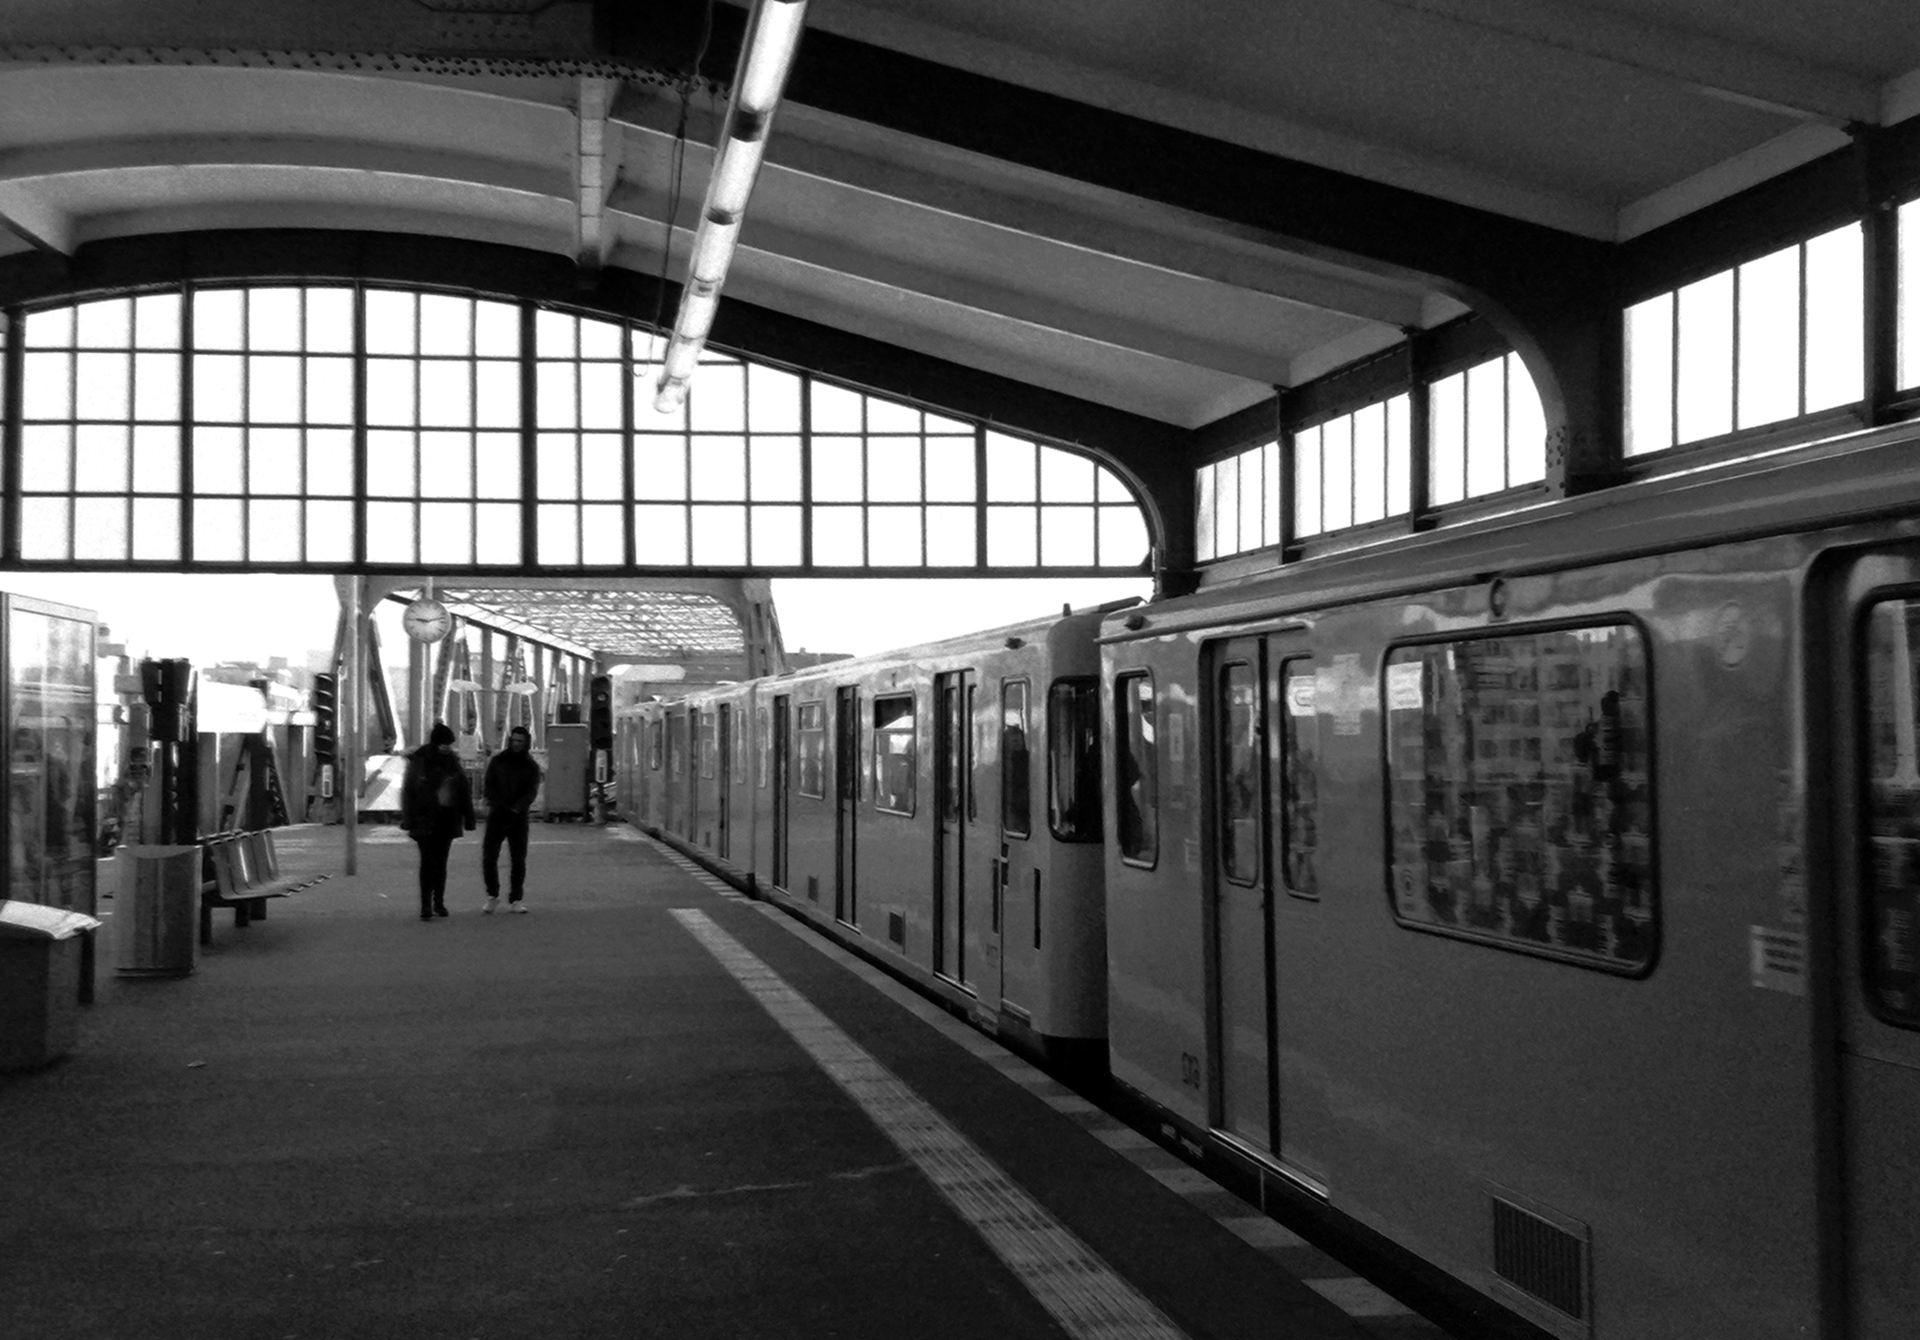
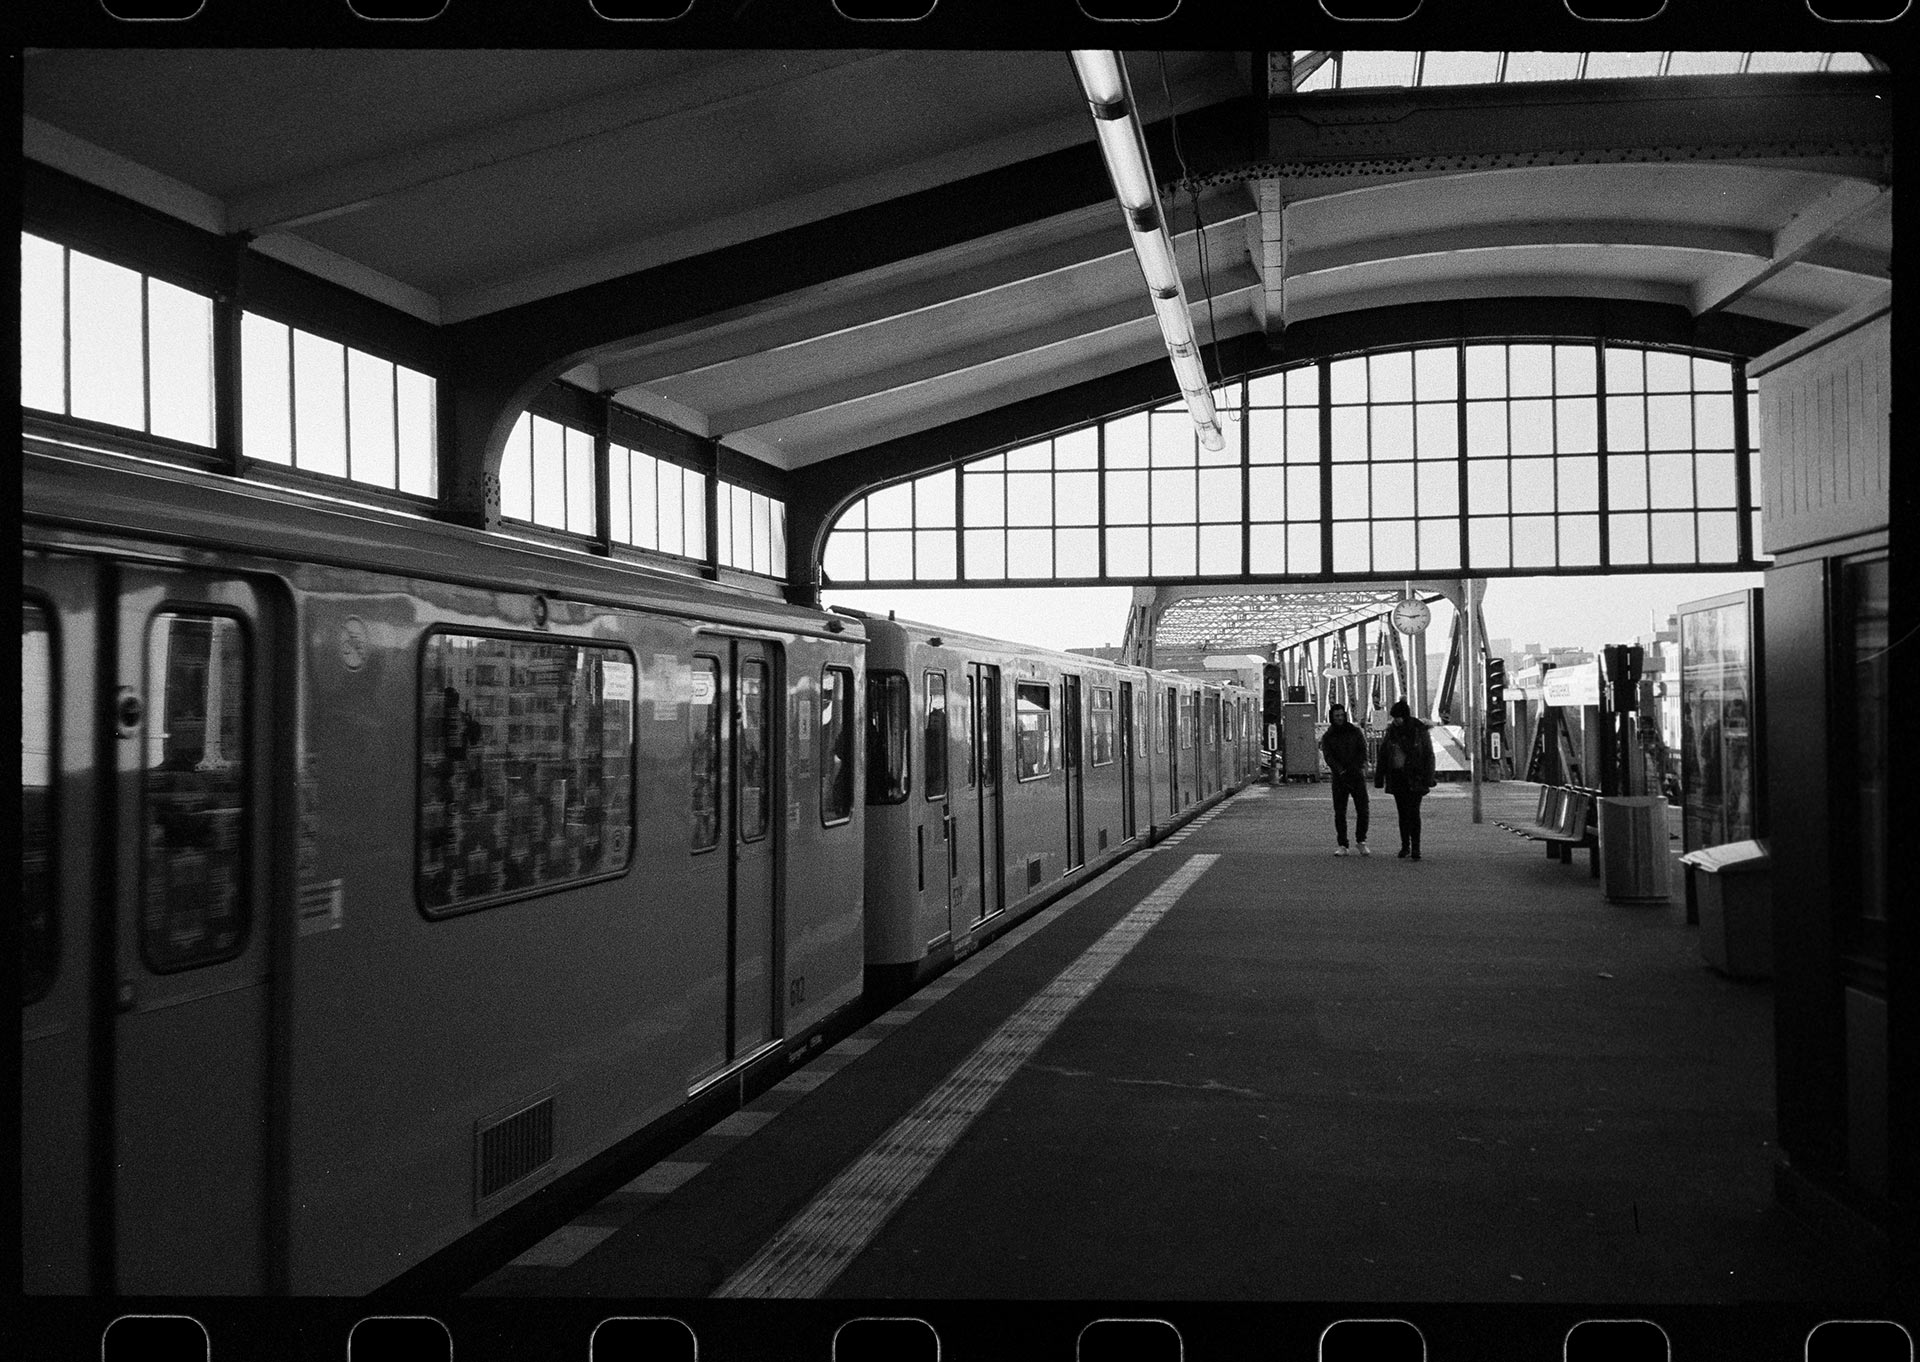
Updated all images with high res scans
Also removed header image and iterated on headline and byline

diff --git a/index.html b/index.html
@@ -4,7 +4,7 @@
 <head>
 	<meta http-equiv="content-type" content="text/html; charset=utf-8">
 	<meta name="viewport" content="width=device-width, initial-scale=1">
-	<title>Six months au Berlin.</title>
+	<title>Sechs Monate in Berlin</title>
 	<!-- <link href="https://fonts.googleapis.com/css?family=Open+Sans+Condensed:300|Playfair+Display" rel="stylesheet"> -->
 	<link rel="stylesheet" href="stylesheets/styles.css"/>
 </head>
@@ -12,31 +12,30 @@
 <body>
 
 	<section id="intro">
-		<div class="title">Six months au Berlin.</div>
-		<div class="byline">A 35mm photo journal of my experiences from living in Berlin, Germany between September 2016 to March 2017.</div>
+		<div class="title">Sechs Monate in Berlin</div>
+		<div class="byline">This is photo journal of my time in Berlin. These photos were taken on Ilford Delta 400 35mm film  on a Olympus Stylus Epic. All shot between September 2016 and February 2017.</div>
 	</section>
 
   <section id="content">
+		<img src="img/berlin-tv-tower.JPG" />
 		<img src="img/berlin-accordian-player.JPG" />
 		<img src="img/berlin-gorlitzer-park.JPG" />
     <img src="img/berlin-hotel-nhow.JPG" />
-    <img src="img/berlin-revaler-outside.JPG" />
 		<img src="img/berlin-revaler.JPG" />
 		<img src="img/berlin-spree-molecule-man.JPG" />
 		<img src="img/berlin-spree.JPG" />
-		<img src="img/berlin-templehof.JPG" />
-		<img src="img/berlin-treptower-park.JPG" />
-		<img src="img/berlin-xmas-market.JPG" />
-		<img src="img/berlin-ducks.JPG" />
 		<img src="img/berlin-boat.JPG" />
-		<img src="img/berlin-mercedes-truck.JPG" />
+		<img src="img/berlin-ducks.JPG" />
+		<img src="img/berlin-templehof-building.JPG" />
+		<img src="img/berlin-templehof.JPG" />
+		<img src="img/berlin-xmas-market.JPG" />
 		<img src="img/berlin-xmasmarket-rides.JPG" />
-		<img src="img/berlin-train-tracks.JPG" />
+		<img src="img/berlin-mellowpark.JPG" />
 		<img src="img/berlin-u-ban.JPG" />
 		<img src="img/berlin-gartnerstrausse.JPG" />
-		<img src="img/berlin-templehof-outlooking.JPG" />
-		<img src="img/berlin-templehof-building.JPG" />
-		<img src="img/berlin-self-portrait.JPG" />
+		<img src="img/berlin-treptower.JPG" />
+		<img src="img/berlin-treptower-statue.JPG" />
+		<img src="img/berlin-self-portrait.JPG" class="last-img"/>
   </section>
 
 	<script>

diff --git a/styleguides/styles.css b/styleguides/styles.css
@@ -1,7 +1,6 @@
 body {
   margin: 0;
-  padding: 0;
-  background-color: #1d1d1d; }
+  padding: 0; }
 
 #intro {
   -webkit-transition: color 0.1s linear;
@@ -17,6 +16,10 @@ body {
   /* Opera < 12.1 */
   animation: fadein 1.2s;
   animation-timing-function: ease-in-out;
+  background-image: url("../img/intro.jpg");
+  background-position: center;
+  background-size: 100%;
+  background-repeat: no-repeat;
   color: white;
   height: auto;
   padding: 164px 16px 164px 16px;
@@ -46,9 +49,8 @@ body {
     font-weight: 100;
     font-size: 16px;
     line-height: 24px;
-    width: 664px;
-    margin: auto;
-    color: #ccc; }
+    width: 650px;
+    margin: auto; }
     @media (max-width: 800px) {
       #intro .byline {
         font-size: 16px;
@@ -56,7 +58,8 @@ body {
         padding: 0 24px 0 24px; } }
 
 #content {
-  padding: 32px; }
+  padding: 32px;
+  background-color: black; }
   @media (max-width: 800px) {
     #content {
       padding: 0;
@@ -64,7 +67,7 @@ body {
 
 img {
   width: 100%;
-  padding-bottom: 64px;
+  padding-bottom: 32px;
   -webkit-transition: color 0.1s linear;
   -moz-transition: color 0.1s linear;
   transition: color 0.1s linear;
@@ -80,7 +83,7 @@ img {
   animation-timing-function: ease-in-out; }
   @media (max-width: 800px) {
     img {
-      padding: 0 0 16px 0;
+      padding: 0;
       margin: 0; } }
 
 .last-img {

diff --git a/sass/styles.scss b/sass/styles.scss
@@ -30,6 +30,7 @@ $testing_color_3: rgba(167,199,255,0.50); //blue
 body {
   margin: 0;
   padding: 0;
+  background-color: #1d1d1d;
 }
 
 #intro {
@@ -44,10 +45,6 @@ body {
           animation: fadein 1.2s;
           animation-timing-function: ease-in-out;
   //Image
-  background-image: url('../img/intro.jpg');
-  background-position: center;
-  background-size: 100%;
-  background-repeat: no-repeat;
   color: white;
   height: auto;
   padding: 164px 16px 164px 16px;
@@ -82,8 +79,9 @@ body {
     font-weight: $light;
     font-size: $s;
     line-height: $xm;
-    width: 650px;
+    width: 664px;
     margin: auto;
+    color: #ccc;
     @media ( max-width: $tablet ) {
       font-size: $s;
       width: auto;
@@ -102,7 +100,7 @@ body {
 
 img {
   width: 100%;
-  padding-bottom: $m;
+  padding-bottom: $xl;
   -webkit-transition: color 0.1s linear;
   -moz-transition: color 0.1s linear;
   transition: color 0.1s linear;
@@ -113,9 +111,13 @@ img {
           animation: fadein 1.2s;
           animation-timing-function: ease-in-out;
   @media ( max-width: $tablet ) {
-    padding: 0;
+    padding: 0 0 16px 0;
     margin: 0;
   }
+}
+
+.last-img {
+  padding-bottom: 0;
 }
 
 #outro {
